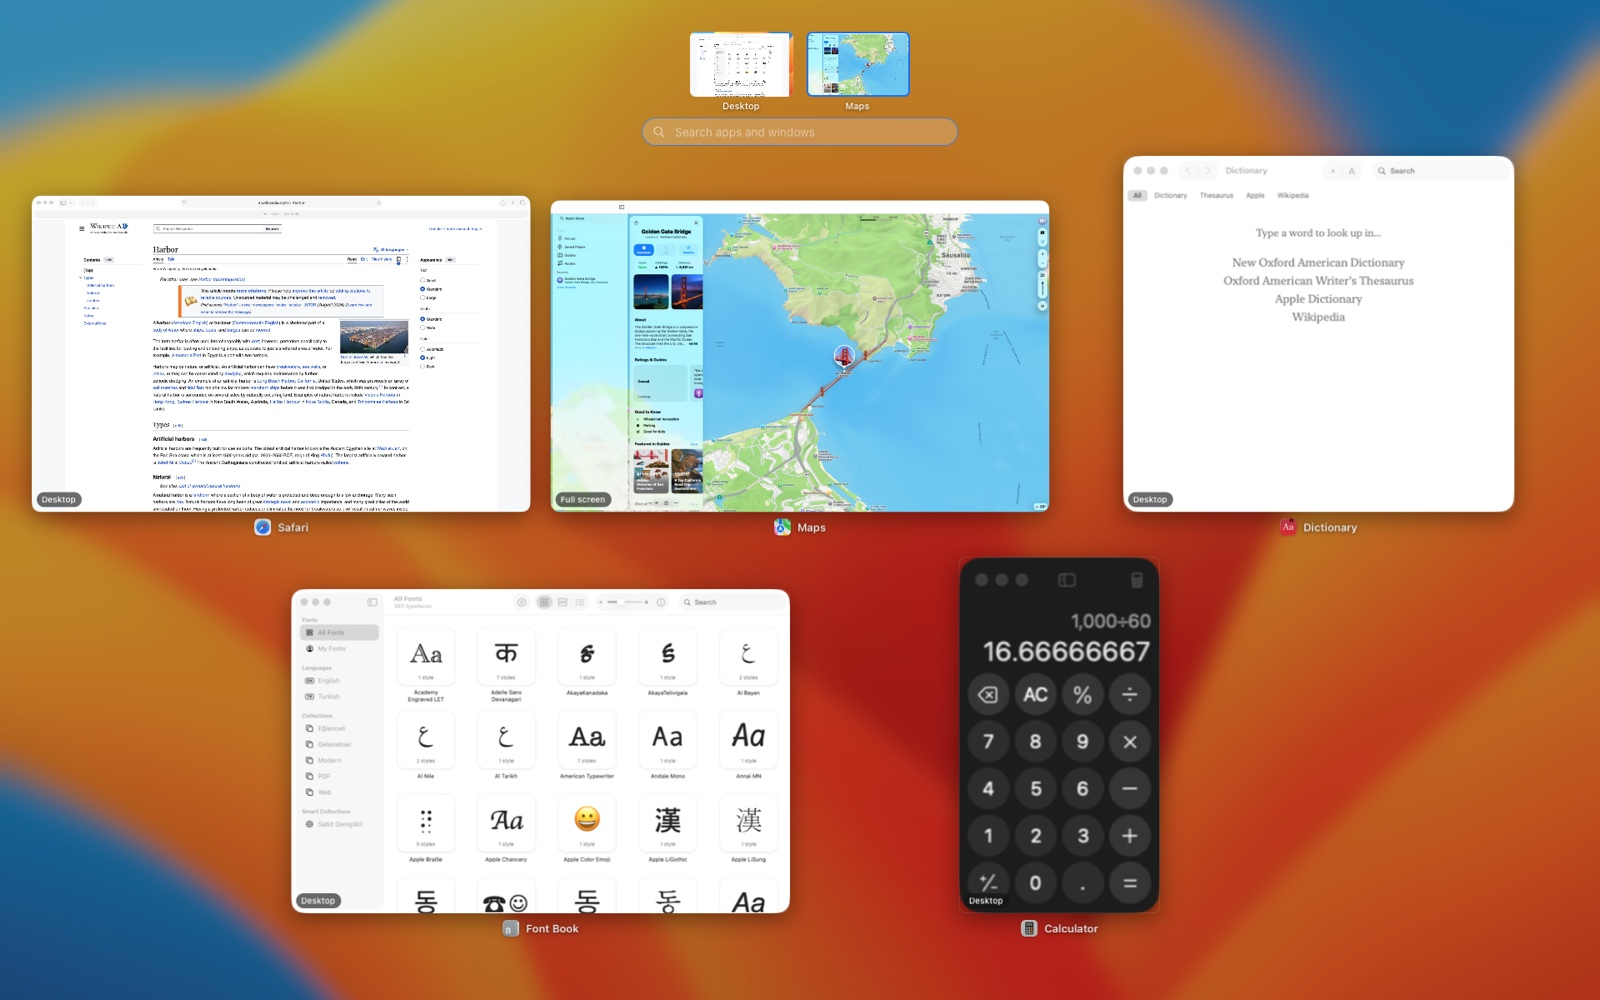
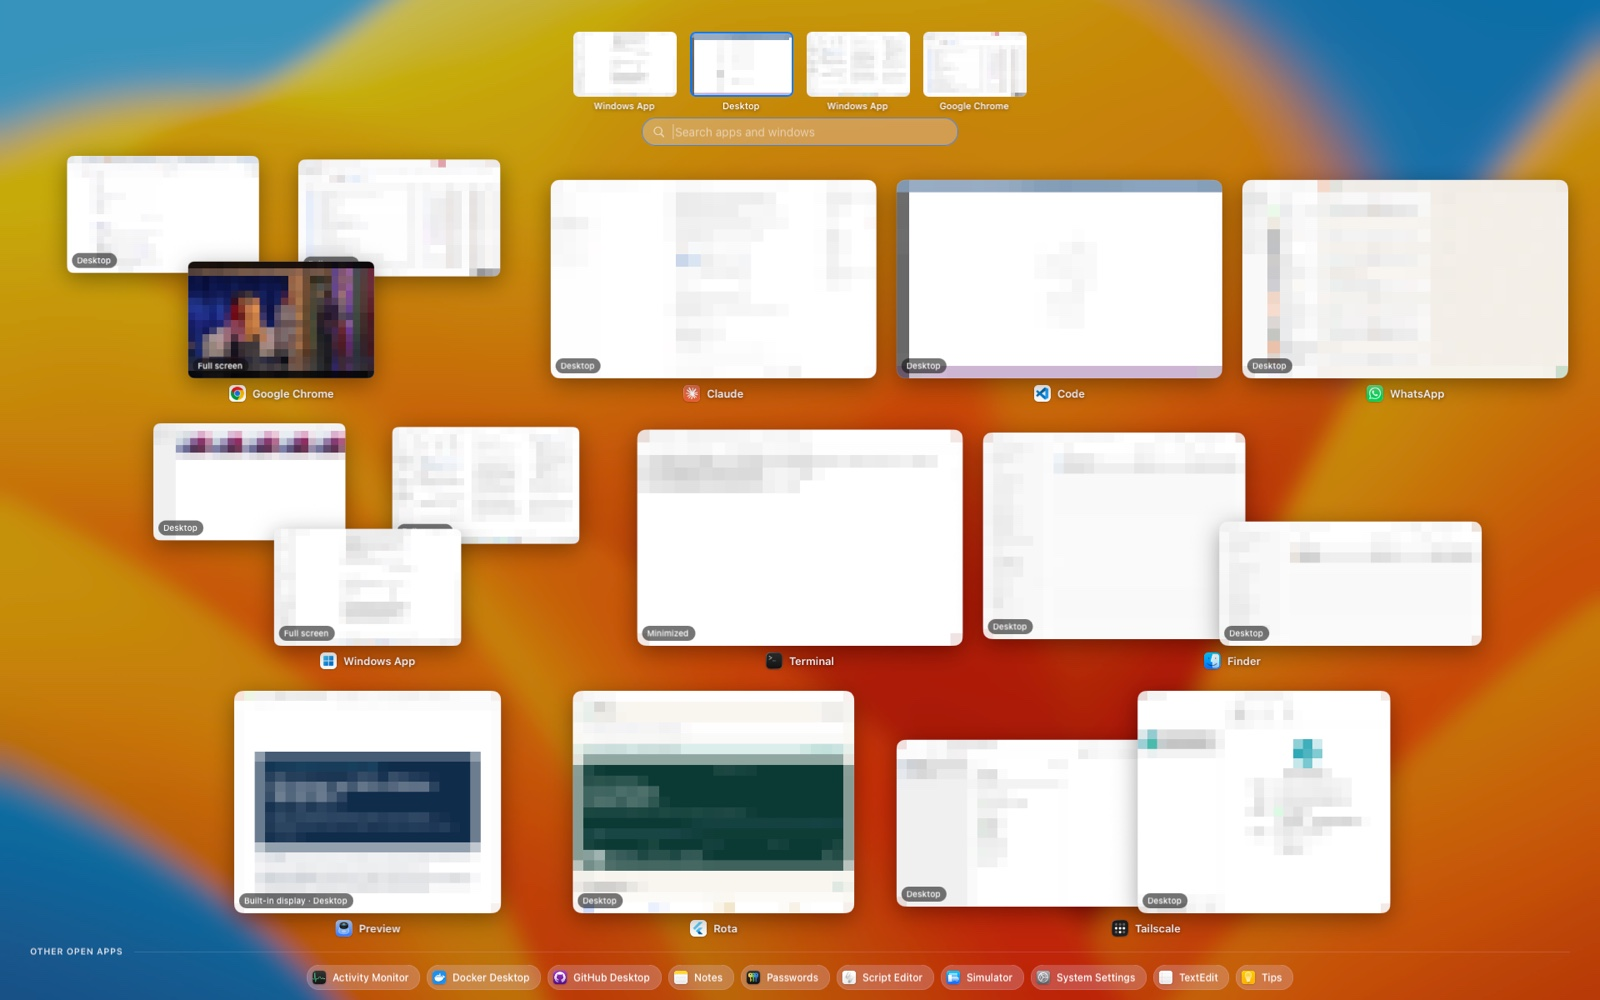
Real screenshots with pixelated window contents; app names follow Berth's language
- README shows the scene, search, a Dock preview and all settings pages, taken from a real
  desktop in a debug-only mosaic mode (previews pixelated, window titles and full-screen names
  hidden); private settings fields are pixelated too.
- App names in the scene and the pinned apps settings come from each app's own translation
  table in Berth's language; the built-in display is recognised by hardware, not by name.

diff --git a/Sources/Berth/SceneSnapshot.swift b/Sources/Berth/SceneSnapshot.swift
@@ -81,6 +81,29 @@ struct SceneSnapshot {
 /// demoApps -array com.apple.Safari …` verilince sahne yalnızca bu uygulamaları gösterir; diğer
 /// pencereler ve yalnızca onların bulunduğu tam ekran alanlar görünmez. Silince mod kapanır.
 enum DemoMode {
+    /// `defaults write io.github.brkhsdmr.berth mosaicPreviews -bool YES`: pencere önizlemeleri
+    /// pikselleşir, tam ekran alanlar pencere başlığı yerine uygulama adıyla anılır. Gerçek
+    /// kullanımın ekran görüntüsü, içerik okunmadan.
+    static var mosaic: Bool { UserDefaults.standard.bool(forKey: "mosaicPreviews") }
+
+    /// Görüntüyü iri pikselli bir mozaiğe çevirir: önce küçültülür, sonra yumuşatmadan büyütülür.
+    static func mosaic(_ image: CGImage) -> CGImage {
+        let blocks = 26.0
+        let small = CGSize(width: blocks, height: max(1, (blocks * Double(image.height) / Double(max(image.width, 1))).rounded()))
+        let space = CGColorSpaceCreateDeviceRGB()
+        let info = CGImageAlphaInfo.premultipliedLast.rawValue
+        guard let tiny = CGContext(data: nil, width: Int(small.width), height: Int(small.height), bitsPerComponent: 8, bytesPerRow: 0, space: space, bitmapInfo: info) else { return image }
+        tiny.interpolationQuality = .medium
+        tiny.draw(image, in: CGRect(origin: .zero, size: small))
+        guard let reduced = tiny.makeImage() else { return image }
+        let scale = 24.0
+        let big = CGSize(width: small.width * scale, height: small.height * scale)
+        guard let large = CGContext(data: nil, width: Int(big.width), height: Int(big.height), bitsPerComponent: 8, bytesPerRow: 0, space: space, bitmapInfo: info) else { return image }
+        large.interpolationQuality = .none
+        large.draw(reduced, in: CGRect(origin: .zero, size: big))
+        return large.makeImage() ?? image
+    }
+
     static var apps: [String]? {
         guard let list = UserDefaults.standard.stringArray(forKey: "demoApps"), !list.isEmpty else { return nil }
         return list
@@ -89,9 +112,20 @@ enum DemoMode {
 
 extension SceneSnapshot {
     func demoFiltered() -> SceneSnapshot {
-        guard let demo = DemoMode.apps else { return self }
-        let keep = Set(demo)
         var copy = self
+        if DemoMode.mosaic {
+            // Başlıklar da gizlenir: kartlarda "Uygulama · Pencere N" görünür.
+            for key in copy.apps.keys {
+                for index in copy.apps[key]!.windows.indices { copy.apps[key]!.windows[index].title = "" }
+            }
+            // Tam ekran alanın adı pencere başlığıdır (bilgisayar adı, belge adı): uygulama adı olsun.
+            for index in copy.spaces.indices where copy.spaces[index].isFullScreen {
+                let id = copy.spaces[index].id
+                if let app = apps.values.first(where: { $0.windows.contains { $0.spaceID == id } }) { copy.spaces[index].label = app.name }
+            }
+        }
+        guard let demo = DemoMode.apps else { return copy }
+        let keep = Set(demo)
         copy.apps = apps.filter { keep.contains($0.key) }
         copy.spaces = spaces.filter { space in
             !space.isFullScreen || copy.apps.values.contains { $0.windows.contains { $0.spaceID == space.id } }
@@ -249,7 +283,8 @@ enum SceneSource {
         // Başlık okunamayınca tam ekran alanı, içindeki uygulamanın adıyla anılır.
         for index in spaces.indices where spaces[index].isFullScreen && spaces[index].label == tx("Tam ekran", "Full screen") {
             let owner = windowsByApp.first { $0.value.contains { $0.spaceID == spaces[index].id } }?.key
-            let name = owner.flatMap { id in running.first { $0.bundleIdentifier == id }?.localizedName }
+            let name = owner.flatMap { id in running.first { $0.bundleIdentifier == id } }
+                .map { InstalledApps.name(bundleURL: $0.bundleURL, fallback: $0.localizedName ?? "") }
             if let name { spaces[index].label = cleanName(name) }
         }
         _ = labelByID
@@ -260,7 +295,7 @@ enum SceneSource {
             let windows = (windowsByApp[id] ?? []).sorted { $0.id < $1.id }
             apps[id] = SceneApp(
                 id: id,
-                name: cleanName(app.localizedName ?? id),
+                name: cleanName(InstalledApps.name(bundleURL: app.bundleURL, fallback: app.localizedName ?? id)),
                 icon: app.icon ?? NSWorkspace.shared.icon(for: .application),
                 isRunning: true,
                 pid: app.processIdentifier,
@@ -275,7 +310,7 @@ enum SceneSource {
             let display = FileManager.default.displayName(atPath: url.path)
             apps[id] = SceneApp(
                 id: id,
-                name: cleanName(display.hasSuffix(".app") ? String(display.dropLast(4)) : display),
+                name: cleanName(InstalledApps.name(bundleURL: url, fallback: display.hasSuffix(".app") ? String(display.dropLast(4)) : display)),
                 icon: NSWorkspace.shared.icon(forFile: url.path),
                 isRunning: false,
                 pid: nil,
@@ -353,9 +388,11 @@ enum SceneSource {
         let own = screen.displayUUID
         var result: [UInt64: String] = [:]
         for display in SkyLight.displays() where display.identifier.caseInsensitiveCompare(own) != .orderedSame {
-            let name = NSScreen.screens.first { $0.displayUUID.caseInsensitiveCompare(display.identifier) == .orderedSame }?
-                .localizedName ?? tx("Diğer ekran", "Other display")
-            let short = name.hasPrefix("Built-in") || name.hasPrefix(tx("Yerleşik", "Built-in")) ? tx("Dahili ekran", "Built-in display") : name
+            let match = NSScreen.screens.first { $0.displayUUID.caseInsensitiveCompare(display.identifier) == .orderedSame }
+            // Dahili ekran adından değil donanımdan tanınır: ad sistem dilinde gelir, Berth'inkinde değil.
+            let short = match.map { CGDisplayIsBuiltin($0.displayID) != 0 } == true
+                ? tx("Dahili ekran", "Built-in display")
+                : match?.localizedName ?? tx("Diğer ekran", "Other display")
             for space in display.spaces { result[space.id] = short }
         }
         return result

diff --git a/Sources/Berth/InstalledApps.swift b/Sources/Berth/InstalledApps.swift
@@ -49,6 +49,26 @@ final class InstalledApps: @unchecked Sendable {
         return ranked.prefix(limit).map { $0.app }
     }
 
+    private static var nameCache: [String: String] = [:]
+    private static let nameLock = NSLock()
+
+    /// Uygulamanın Berth'in dilindeki adı (sahne, arama). Çeviri tablosu yoksa İngilizcede temel ad,
+    /// Türkçede `fallback` (çalışan uygulamanın kendi adı ya da Finder'ın adı).
+    static func name(bundleURL: URL?, fallback: String) -> String {
+        guard let url = bundleURL else { return fallback }
+        nameLock.lock()
+        if let cached = nameCache[url.path] { nameLock.unlock(); return cached }
+        nameLock.unlock()
+        let bundle = Bundle(url: url)
+        let base = (bundle?.infoDictionary?["CFBundleDisplayName"] as? String) ?? (bundle?.infoDictionary?["CFBundleName"] as? String)
+        var name = bundle.flatMap(localizedName) ?? (L10n.english ? base : nil) ?? fallback
+        if name.hasSuffix(".app") { name = String(name.dropLast(4)) }
+        nameLock.lock()
+        nameCache[url.path] = name
+        nameLock.unlock()
+        return name
+    }
+
     /// Uygulamanın adı Berth'in dilinde: önce InfoPlist.loctable (macOS'un kendi uygulamaları),
     /// sonra dil klasöründeki InfoPlist.strings. Çeviri yoksa nil.
     private static func localizedName(_ bundle: Bundle) -> String? {
@@ -83,12 +103,8 @@ final class InstalledApps: @unchecked Sendable {
             guard seen.insert(id ?? url.path).inserted else { return }
             // Ad uygulamanın kendi çeviri tablosundan, Berth'in diliyle: Finder'ın adı sistem
             // dilinde kalıyor, Berth'in dili farklıysa ızgarada iki dil karışıyordu.
-            let base = (bundle?.infoDictionary?["CFBundleDisplayName"] as? String) ?? (bundle?.infoDictionary?["CFBundleName"] as? String)
             // İngilizce çoğu zaman tabloda değil, uygulamanın temel adıdır (Calculator).
-            var name = bundle.flatMap(Self.localizedName)
-                ?? (L10n.english ? base : nil)
-                ?? manager.displayName(atPath: url.path)
-            if name.hasSuffix(".app") { name = String(name.dropLast(4)) }
+            let name = Self.name(bundleURL: url, fallback: manager.displayName(atPath: url.path))
             result.append(App(name: name, url: url, bundleID: id))
         }
         var folders = roots

diff --git a/Sources/Berth/DockPreview.swift b/Sources/Berth/DockPreview.swift
@@ -142,6 +142,20 @@ final class DockWatcher {
         return entries
     }
 
+    #if DEBUG
+    /// Ekran görüntüsü için: verilen uygulamanın Dock simgesi, imleç üstünde değilken.
+    func item(bundleID: String) -> Item? {
+        guard let list, let items = Self.attribute(list, kAXChildrenAttribute) as? [AXUIElement] else { return nil }
+        for element in items {
+            guard let url = Self.attribute(element, kAXURLAttribute) as? URL, Bundle(url: url)?.bundleIdentifier == bundleID,
+                  let title = Self.attribute(element, kAXTitleAttribute) as? String, let frame = Self.frame(element)
+            else { continue }
+            return Item(title: title, bundleID: bundleID, frame: frame, isFixedFrame: true)
+        }
+        return nil
+    }
+    #endif
+
     /// Seçili simgenin şu anki karesi. Tam ekranda Dock kayarak açıldığı için bildirim
     /// anındaki kare ekranın dışında kalmış olabilir.
     func liveItemFrame() -> CGRect? {
@@ -467,7 +481,15 @@ final class DockPreviewController {
         }
     }
 
+    #if DEBUG
+    /// Ekran görüntüsü için: imleç uzaktayken de açık kalsın.
+    var holdOpen = false
+    #endif
+
     private func checkLeave() {
+        #if DEBUG
+        if holdOpen { return }
+        #endif
         let mouse = NSEvent.mouseLocation
         let inPanel = panel.frame.insetBy(dx: -6, dy: -6).contains(mouse)
         // Dock seçimi imleç panele geçince temizlenmeyebiliyor; asıl ölçü imlecin yeri.

diff --git a/Sources/Berth/AppController.swift b/Sources/Berth/AppController.swift
@@ -204,6 +204,21 @@ final class AppController: NSObject, NSApplicationDelegate, SceneViewDelegate {
         ) { [weak self] _ in
             MainActor.assumeIsolated { self?.showSettings() }
         }
+        // Dock önizlemesini açar (ekran görüntüsü için); nesne uygulama kimliği, boşsa kapatır.
+        DistributedNotificationCenter.default().addObserver(
+            forName: Notification.Name("io.github.brkhsdmr.berth.dockPreview"),
+            object: nil,
+            queue: .main
+        ) { [weak self] note in
+            let id = note.object as? String ?? ""
+            MainActor.assumeIsolated {
+                guard let self else { return }
+                if id.isEmpty { self.dockPreview.holdOpen = false; self.dockPreview.hide(); return }
+                guard let item = self.dockWatcher.item(bundleID: id) else { DockTrace.log("dock testi: \(id) yok"); return }
+                self.dockPreview.holdOpen = true
+                self.dockPreview.dockItemChanged(item)
+            }
+        }
         // Sahneyi açıp aramaya yazar (ekran görüntüsü için); nesne aranan söz, boşsa kapatır.
         DistributedNotificationCenter.default().addObserver(
             forName: Notification.Name("io.github.brkhsdmr.berth.searchPreview"),

diff --git a/Sources/Berth/ImageStores.swift b/Sources/Berth/ImageStores.swift
@@ -65,7 +65,10 @@ final class ThumbnailStore {
 
                 for await (id, image) in group {
                     guard !Task.isCancelled else { return }
-                    if let image, let self {
+                    if var image, let self {
+                        #if DEBUG
+                        if DemoMode.mosaic { image = DemoMode.mosaic(image) }
+                        #endif
                         self.images[id] = image
                         self.fromPrimary.insert(id)
                         self.onImage?(id, image)
@@ -78,7 +81,10 @@ final class ThumbnailStore {
 
             guard !Task.isCancelled, let self else { return }
             for id in failed where !self.fromPrimary.contains(id) {
-                if let image = SkyLight.captureWindow(id) {
+                if var image = SkyLight.captureWindow(id) {
+                    #if DEBUG
+                    if DemoMode.mosaic { image = DemoMode.mosaic(image) }
+                    #endif
                     self.images[id] = image
                     self.onImage?(id, image)
                 }

diff --git a/Sources/Berth/Settings.swift b/Sources/Berth/Settings.swift
@@ -929,7 +929,7 @@ private struct PinStrip: View {
     private func cell(_ id: String, showsName: Bool) -> some View {
         let on = selection == id
         let url = NSWorkspace.shared.urlForApplication(withBundleIdentifier: id)
-        let name = url.map { FileManager.default.displayName(atPath: $0.path).replacingOccurrences(of: ".app", with: "") } ?? id
+        let name = url.map { InstalledApps.name(bundleURL: $0, fallback: FileManager.default.displayName(atPath: $0.path).replacingOccurrences(of: ".app", with: "")) } ?? id
         return Button {
             selection = id
         } label: {
@@ -960,7 +960,7 @@ private struct AppRow: View {
     private var name: String {
         guard let url else { return id }
         let display = FileManager.default.displayName(atPath: url.path)
-        return display.hasSuffix(".app") ? String(display.dropLast(4)) : display
+        return InstalledApps.name(bundleURL: url, fallback: display.hasSuffix(".app") ? String(display.dropLast(4)) : display)
     }
 
     var body: some View {

diff --git a/README.tr.md b/README.tr.md
@@ -6,7 +6,7 @@ Mission Control ve Görev Görünümü her açılışta her şeyi yeniden dizer.
 
 Ücretsiz ve açık kaynak (GPL-3.0). [English](README.md)
 
-![macOS'ta Berth: canlı önizlemeli sabit uygulamalar, üstte masaüstü şeridi](docs/images/scene.jpg)
+![macOS'ta Berth: her uygulama kendi yerinde, canlı önizlemeler, üstte masaüstü şeridi (pencere içerikleri bu görüntü için pikselleştirildi)](docs/images/scene.jpg)
 
 ## Özellikler
 
@@ -22,9 +22,20 @@ Mission Control ve Görev Görünümü her açılışta her şeyi yeniden dizer.
 - **Gizlilik.** Hesap yok, analiz yok. Mac–Windows köprüsünü açmadıkça ağ bağlantısı da yok. Bkz. [gizlilik](store/privacy.md).
 
 <table><tr>
-<td width="62%"><img src="docs/images/search.jpg" alt="Arama kutusuna yazınca pencereler süzülür, açık olmayanlar dahil uygulamalar görünür"></td>
-<td><img src="docs/images/settings.png" alt="Ayarlar penceresi: klavye kısayolu, trackpad hareketi ve sıcak köşe seçici"></td>
+<td width="62%"><img src="docs/images/search.jpg" alt="Yazınca pencereler süzülür, adı uyan uygulamalar açık olmayanlar dahil simge ızgarasında görünür"></td>
+<td><img src="docs/images/dock-preview.png" alt="Dock simgesinin üstüne gelince uygulamanın tüm masaüstlerindeki pencereleri"></td>
 </tr></table>
+
+<details>
+<summary>Daha fazla görüntü: ayarlar</summary>
+
+| | |
+|---|---|
+| ![Açılış: kısayol, trackpad hareketi, sıcak köşe](docs/images/settings-opening.png) | ![Sabit uygulamalar](docs/images/settings-pinned.png) |
+| ![Çalışma düzenleri](docs/images/settings-layouts.png) | ![Windows bağlantısı](docs/images/settings-windows.png) |
+| ![Genel](docs/images/settings-general.png) | ![İzinler](docs/images/settings-permissions.png) |
+
+</details>
 
 ## Gereksinimler
 

diff --git a/README.md b/README.md
@@ -6,7 +6,7 @@ Mission Control and Task View rearrange everything each time you open them. Bert
 
 Free and open source (GPL-3.0). [Türkçe](README.tr.md)
 
-![Berth on macOS: pinned apps with live previews, the desktop strip at the top](docs/images/scene.jpg)
+![Berth on macOS: every app in its own place with live previews, the desktop strip at the top (window contents pixelated for this screenshot)](docs/images/scene.jpg)
 
 ## Features
 
@@ -22,9 +22,20 @@ Free and open source (GPL-3.0). [Türkçe](README.tr.md)
 - **Private by design.** No account, no analytics, no network unless you turn on the Mac–Windows bridge. See [privacy](store/privacy.md).
 
 <table><tr>
-<td width="62%"><img src="docs/images/search.jpg" alt="Typing in the search box filters windows and shows matching apps, including ones that aren't running"></td>
-<td><img src="docs/images/settings.png" alt="The settings window: keyboard shortcut, trackpad gesture and a hot corner picker"></td>
+<td width="62%"><img src="docs/images/search.jpg" alt="Typing filters windows and shows matching apps in an icon grid, including apps that are not running"></td>
+<td><img src="docs/images/dock-preview.png" alt="Hovering a Dock icon shows that app's windows on every desktop"></td>
 </tr></table>
+
+<details>
+<summary>More screenshots: settings</summary>
+
+| | |
+|---|---|
+| ![Opening: shortcut, trackpad gesture, hot corner](docs/images/settings-opening.png) | ![Pinned apps](docs/images/settings-pinned.png) |
+| ![Workspace layouts](docs/images/settings-layouts.png) | ![Windows connection](docs/images/settings-windows.png) |
+| ![General](docs/images/settings-general.png) | ![Permissions](docs/images/settings-permissions.png) |
+
+</details>
 
 ## Requirements
 
